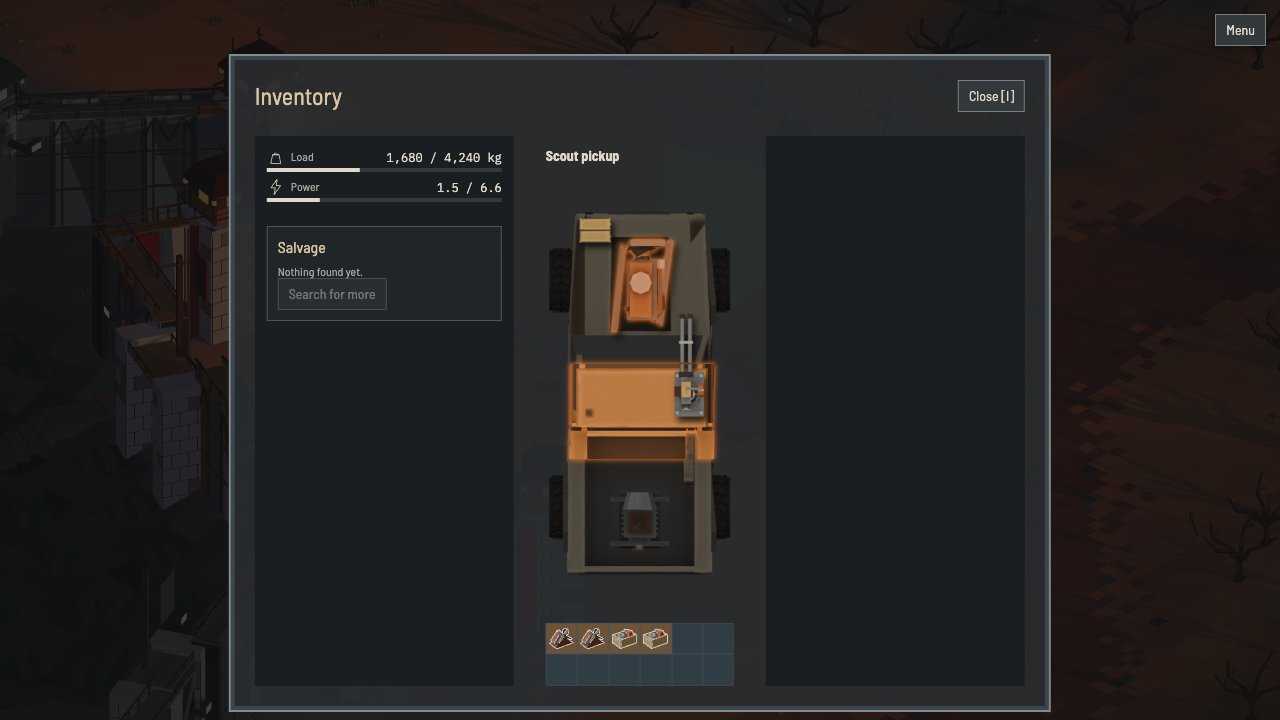
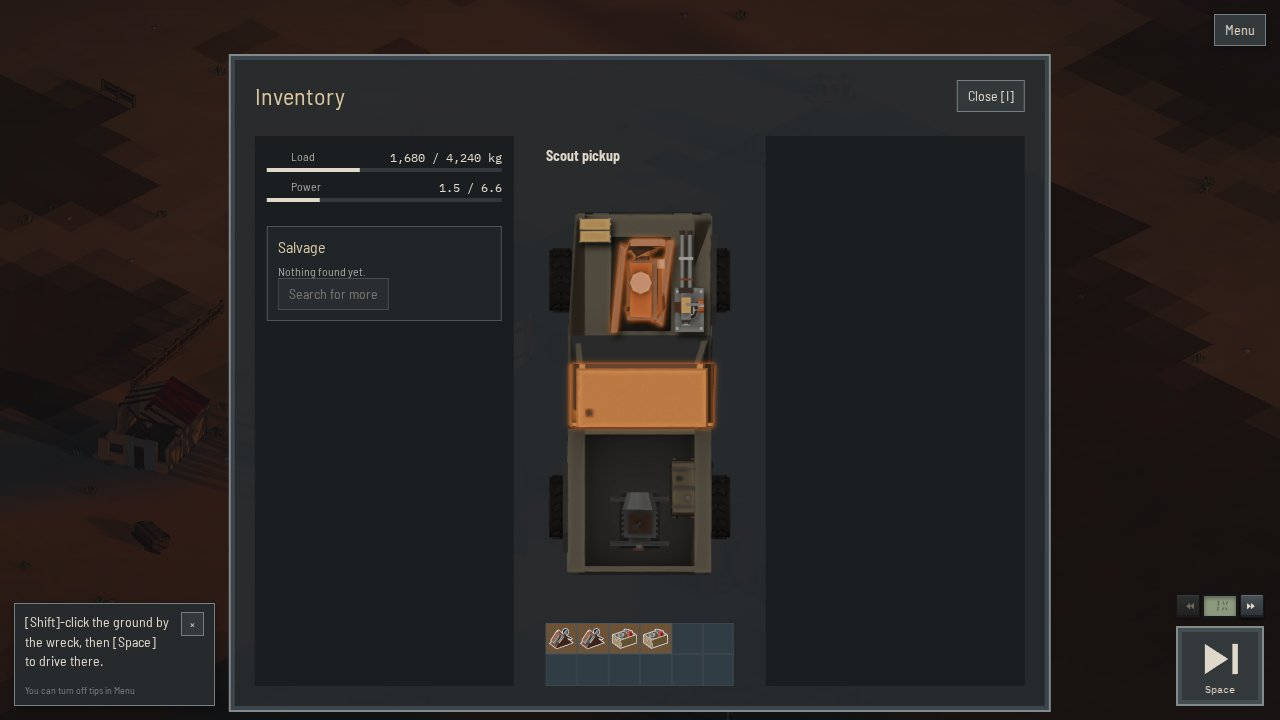
Select items in the look-over screen and add it to the gallery (issue 1522)

diff --git a/game/src/ui/inventory.ts b/game/src/ui/inventory.ts
@@ -738,15 +738,22 @@ export class InventoryView {
     item: GridItem,
     grab: { x: number; y: number },
   ): void {
-    if (e.button !== 0 || this.look()) return;
+    if (e.button !== 0 || this.selectWhileLooking(source, id, item)) return;
+    if (this.look()) return;
     if (dragStartOf(e.pointerType, false) === "hold") return this.startPress(e, source, id, item, grab);
     e.preventDefault();
     e.stopPropagation();
     this.beginDrag(e, source, id, item, grab);
   }
 
+  private selectWhileLooking(source: ItemSource, id: string, item: GridItem): boolean {
+    if (!this.looking) return false;
+    this.clickItem(this.clicked(source, id, item));
+    return true;
+  }
+
   private startPress(e: PointerEvent, source: ItemSource, id: string, item: GridItem, grab: Press["grab"]): void {
-    if (this.look()) return;
+    if (this.selectWhileLooking(source, id, item) || this.look()) return;
     e.preventDefault();
     e.stopPropagation();
     this.endPress();
@@ -853,7 +860,7 @@ export class InventoryView {
   }
 
   private beginGridTap(e: PointerEvent): boolean {
-    if (e.pointerType !== "touch" || this.selectedItem === null || !this.gridEl?.contains(e.target as Node)) return false;
+    if (e.pointerType !== "touch" || this.selectedItem === null || this.look() || !this.gridEl?.contains(e.target as Node)) return false;
     this.tap = { pointerId: e.pointerId, x: e.clientX, y: e.clientY };
     return true;
   }

diff --git a/game/src/ui/inventory-look.test.ts b/game/src/ui/inventory-look.test.ts
@@ -251,4 +251,20 @@ describe("the inventory looking another truck over", () => {
     const view = (screen as unknown as { view: { lookOnlyReason(): unknown } }).view;
     expect(view.lookOnlyReason()).toBeNull();
   });
+
+  it("selects an item pressed in the target grid and never starts a drag or a touch place", () => {
+    const { w, npc } = lookScene();
+    const { screen, applied } = screenOver(w);
+    screen.openLookedOver(w, npc.id);
+    const view = (screen as unknown as {
+      view: { selectedItem: string | null; startDrag(e: unknown, s: string, id: string, item: unknown, grab: unknown): void; beginGridTap(e: unknown): boolean; drag: unknown };
+    }).view;
+    const gun = npc.items.find((it) => it.kind === "part" && it.part.defId === "mg");
+    if (!gun) throw new Error("The scout has no gun");
+    view.startDrag({ button: 0, pointerType: "mouse" }, "truck", gun.id, gun, { x: 0, y: 0 });
+    expect(view.selectedItem).toBe(gun.id);
+    expect(view.drag).toBeNull();
+    expect(view.beginGridTap({ pointerType: "touch", target: null })).toBe(false);
+    expect(applied).toEqual([]);
+  });
 });

diff --git a/game/docs/screens/README.md b/game/docs/screens/README.md
@@ -24,6 +24,7 @@ Every image shows a new game on seed 4242, in English, at 1280 by 720, the small
 - `inventory.jpg`: the inventory with the first part picked.
 - `inventory-gun.jpg`: the inventory with a mounted gun picked.
 - `loot.jpg`: the inventory with a salvage source.
+- `look-over.jpg`: the inventory looking another truck over.
 - `character.jpg`: the character screen, skills.
 - `world-map.jpg`: the character screen, map.
 - `journal-survey.jpg`: the journal with a survey contract.
